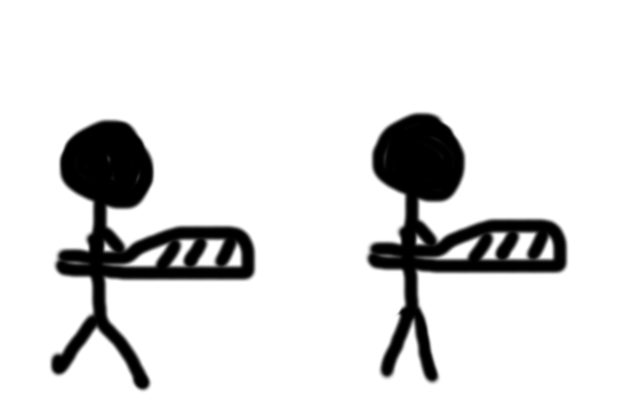
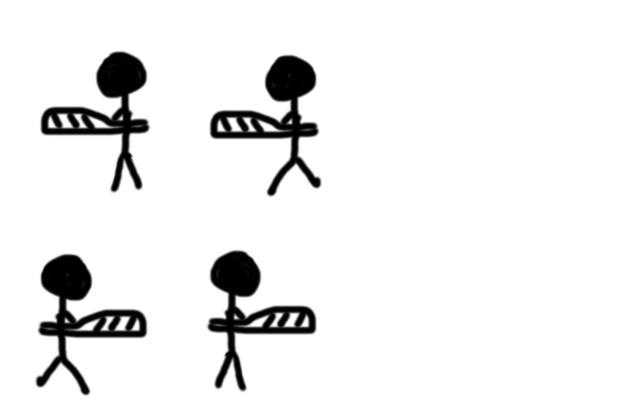
animacions del jugador

Changed region(s): [[0.0312, 0.12, 0.5, 0.99], [0.5625, 0.27, 0.9062, 0.96], [0.3125, 0.12, 0.5, 0.51]]

diff --git a/UnityProj/Assets/Scripts/PlayerScript.cs b/UnityProj/Assets/Scripts/PlayerScript.cs
@@ -11,23 +11,26 @@ public class PlayerScript : MonoBehaviour {
 	private float timeJumping;
 
 	private Quaternion initialRotation;
+	private Animator anim;
 
 	// Use this for initialization
 	void Start () {
 		initialRotation = transform.rotation;
 		timeJumping = 0;
+		anim = GetComponent<Animator>();
 	}
 	
 	// Update is called once per frame
 	void Update () {
 		Vector2 velocity = rigidbody2D.velocity;
 		if (Input.GetKey (left)) {
-				velocity.x = -speed;
+			velocity.x = -speed;
 		} else if (Input.GetKey (right)) {
-				velocity.x = speed;
+			velocity.x = speed;
 		} else {
-				velocity.x = 0;
+			velocity.x = 0;
 		}
+		anim.SetFloat("Displacement", velocity.x);
 
 		if (Input.GetKey (jump)) {
 			if(Physics2D.Linecast(transform.position, groundcheck.position, 1 << LayerMask.NameToLayer("Escenari")))
